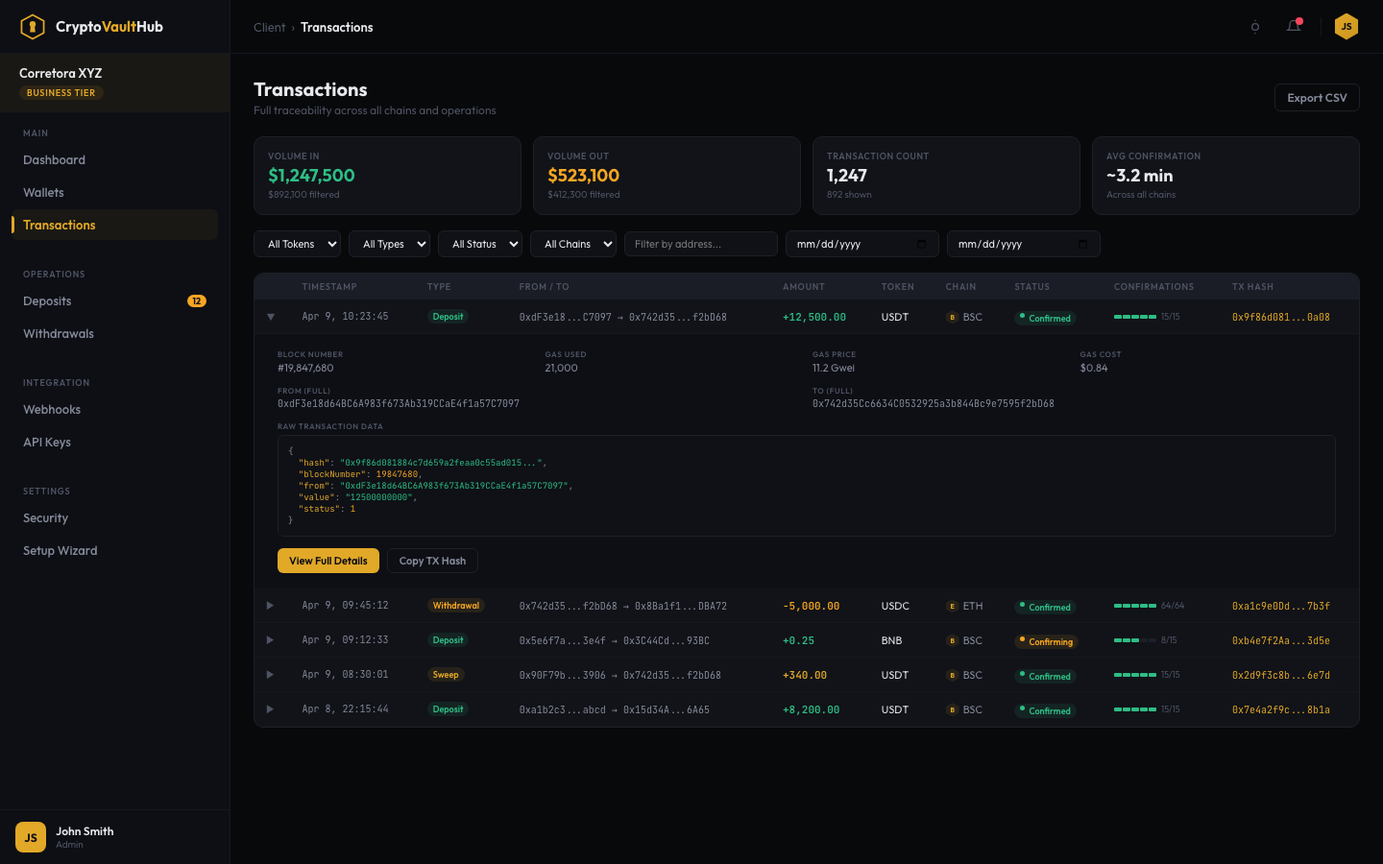
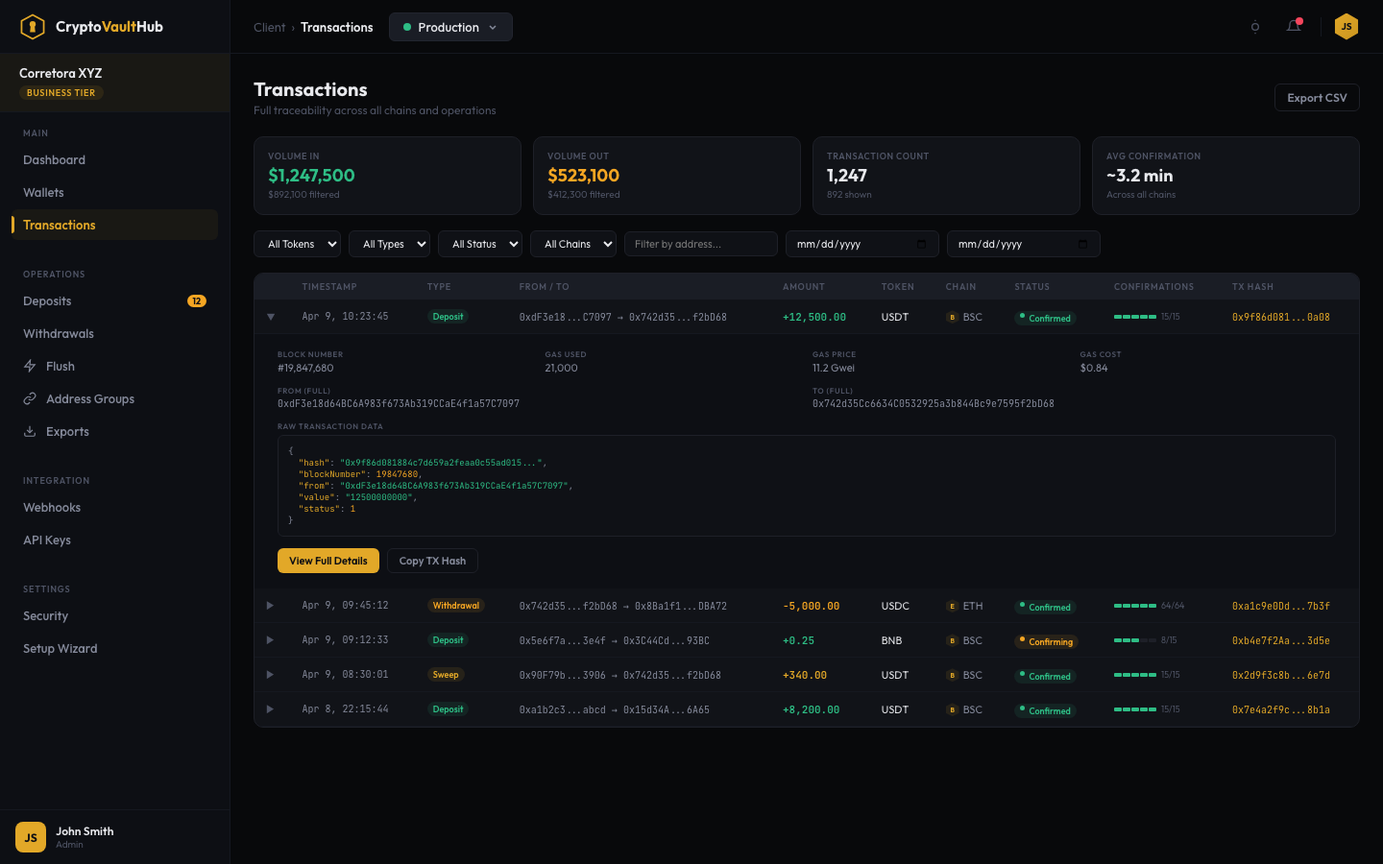
docs: update client portal screenshots for v2 sidebar and header changes
Add Flush, Address Groups, and Exports nav items under Operations section
and Project Selector (Production) in header across all client screenshots:
transactions, setup wizard, dashboard, and wallets (dark + light variants).

Changed region(s): [[0.0, 0.4044, 0.0938, 0.6533], [0.2812, 0.0, 0.375, 0.0622], [0.0312, 0.7467, 0.0625, 0.7778]]

diff --git a/docs/screenshots/client-wallets-dark.html b/docs/screenshots/client-wallets-dark.html
@@ -77,13 +77,13 @@ body{width:1440px;height:900px;overflow:hidden;font-family:'Outfit',sans-serif;b
   <div class="client-info"><div class="name">Corretora XYZ</div><div class="tier-badge">Business Tier</div></div>
   <nav style="flex:1;overflow-y:auto;">
     <div class="nav-section"><div class="nav-label">Main</div><a class="nav-item" href="#">Dashboard</a><a class="nav-item active" href="#">Wallets</a><a class="nav-item" href="#">Transactions</a></div>
-    <div class="nav-section"><div class="nav-label">Operations</div><a class="nav-item" href="#">Deposits <span class="nav-badge">12</span></a><a class="nav-item" href="#">Withdrawals</a></div>
+    <div class="nav-section"><div class="nav-label">Operations</div><a class="nav-item" href="#">Deposits <span class="nav-badge">12</span></a><a class="nav-item" href="#">Withdrawals</a><a class="nav-item" href="#"><svg width="14" height="14" viewBox="0 0 24 24" fill="none" stroke="currentColor" stroke-width="2" stroke-linecap="round" stroke-linejoin="round"><polygon points="13 2 3 14 12 14 11 22 21 10 12 10 13 2"/></svg> Flush</a><a class="nav-item" href="#"><svg width="14" height="14" viewBox="0 0 24 24" fill="none" stroke="currentColor" stroke-width="2" stroke-linecap="round" stroke-linejoin="round"><path d="M10 13a5 5 0 007.54.54l3-3a5 5 0 00-7.07-7.07l-1.72 1.71"/><path d="M14 11a5 5 0 00-7.54-.54l-3 3a5 5 0 007.07 7.07l1.71-1.71"/></svg> Address Groups</a><a class="nav-item" href="#"><svg width="14" height="14" viewBox="0 0 24 24" fill="none" stroke="currentColor" stroke-width="2" stroke-linecap="round" stroke-linejoin="round"><path d="M21 15v4a2 2 0 01-2 2H5a2 2 0 01-2-2v-4"/><polyline points="7 10 12 15 17 10"/><line x1="12" y1="15" x2="12" y2="3"/></svg> Exports</a></div>
     <div class="nav-section"><div class="nav-label">Integration</div><a class="nav-item" href="#">Webhooks</a><a class="nav-item" href="#">API Keys</a></div>
     <div class="nav-section"><div class="nav-label">Settings</div><a class="nav-item" href="#">Security</a><a class="nav-item" href="#">Setup Wizard</a></div>
   </nav>
   <div class="sidebar-footer"><div class="avatar-sq">JS</div><div class="user-info"><div class="user-name">John Smith</div><div class="user-role">Admin</div></div></div>
 </aside>
-<header class="header"><div class="breadcrumb"><span class="crumb">Client</span><span class="sep">&#8250;</span><span class="crumb active">Wallets</span></div><div class="header-actions"><button class="header-btn"><svg width="16" height="16" viewBox="0 0 24 24" fill="none" stroke="#4E5364" stroke-width="2"><circle cx="12" cy="12" r="5"/><line x1="12" y1="1" x2="12" y2="3"/></svg></button><button class="header-btn" style="position:relative;"><svg width="16" height="16" viewBox="0 0 24 24" fill="none" stroke="#4E5364" stroke-width="2"><path d="M18 8A6 6 0 006 8c0 7-3 9-3 9h18s-3-2-3-9"/></svg><span class="notif-dot"></span></button><div class="header-sep"></div><div class="mini-avatar">JS</div></div></header>
+<header class="header"><div class="breadcrumb"><span class="crumb">Client</span><span class="sep">&#8250;</span><span class="crumb active">Wallets</span></div><div class="header-actions"><div style="display:flex;align-items:center;gap:8px;padding:6px 14px;background:#1A1D25;border:1px solid #22252F;border-radius:6px;cursor:pointer;"><div style="width:8px;height:8px;border-radius:50%;background:#2EBD85;"></div><span style="font-size:13px;font-weight:500;color:#E8E9ED;">Production</span><svg width="12" height="12" viewBox="0 0 12 12" fill="none"><path d="M3 5L6 8L9 5" stroke="#858A9B" stroke-width="1.5"/></svg></div><div class="header-sep"></div><button class="header-btn"><svg width="16" height="16" viewBox="0 0 24 24" fill="none" stroke="#4E5364" stroke-width="2"><circle cx="12" cy="12" r="5"/><line x1="12" y1="1" x2="12" y2="3"/></svg></button><button class="header-btn" style="position:relative;"><svg width="16" height="16" viewBox="0 0 24 24" fill="none" stroke="#4E5364" stroke-width="2"><path d="M18 8A6 6 0 006 8c0 7-3 9-3 9h18s-3-2-3-9"/></svg><span class="notif-dot"></span></button><div class="header-sep"></div><div class="mini-avatar">JS</div></div></header>
 <div class="main">
   <div class="page-top"><div><h1>My Wallets</h1><p>All deposit addresses and wallet details across chains</p></div><div class="page-top-actions"><button class="btn-outline">Import CSV</button><button class="btn-gold">+ Generate Address</button></div></div>
   <div class="stats-grid">

diff --git a/docs/screenshots/client-wallets-light.html b/docs/screenshots/client-wallets-light.html
@@ -70,13 +70,13 @@ body{width:1440px;height:900px;overflow:hidden;font-family:'Outfit',sans-serif;b
   <div class="client-info"><div class="name">Corretora XYZ</div><div class="tier-badge">Business Tier</div></div>
   <nav style="flex:1;overflow-y:auto;">
     <div class="nav-section"><div class="nav-label">Main</div><a class="nav-item" href="#">Dashboard</a><a class="nav-item active" href="#">Wallets</a><a class="nav-item" href="#">Transactions</a></div>
-    <div class="nav-section"><div class="nav-label">Operations</div><a class="nav-item" href="#">Deposits <span class="nav-badge">12</span></a><a class="nav-item" href="#">Withdrawals</a></div>
+    <div class="nav-section"><div class="nav-label">Operations</div><a class="nav-item" href="#">Deposits <span class="nav-badge">12</span></a><a class="nav-item" href="#">Withdrawals</a><a class="nav-item" href="#"><svg width="14" height="14" viewBox="0 0 24 24" fill="none" stroke="currentColor" stroke-width="2" stroke-linecap="round" stroke-linejoin="round"><polygon points="13 2 3 14 12 14 11 22 21 10 12 10 13 2"/></svg> Flush</a><a class="nav-item" href="#"><svg width="14" height="14" viewBox="0 0 24 24" fill="none" stroke="currentColor" stroke-width="2" stroke-linecap="round" stroke-linejoin="round"><path d="M10 13a5 5 0 007.54.54l3-3a5 5 0 00-7.07-7.07l-1.72 1.71"/><path d="M14 11a5 5 0 00-7.54-.54l-3 3a5 5 0 007.07 7.07l1.71-1.71"/></svg> Address Groups</a><a class="nav-item" href="#"><svg width="14" height="14" viewBox="0 0 24 24" fill="none" stroke="currentColor" stroke-width="2" stroke-linecap="round" stroke-linejoin="round"><path d="M21 15v4a2 2 0 01-2 2H5a2 2 0 01-2-2v-4"/><polyline points="7 10 12 15 17 10"/><line x1="12" y1="15" x2="12" y2="3"/></svg> Exports</a></div>
     <div class="nav-section"><div class="nav-label">Integration</div><a class="nav-item" href="#">Webhooks</a><a class="nav-item" href="#">API Keys</a></div>
     <div class="nav-section"><div class="nav-label">Settings</div><a class="nav-item" href="#">Security</a><a class="nav-item" href="#">Setup Wizard</a></div>
   </nav>
   <div class="sidebar-footer"><div class="avatar-sq">JS</div><div class="user-info"><div class="user-name">John Smith</div><div class="user-role">Admin</div></div></div>
 </aside>
-<header class="header"><div class="breadcrumb"><span class="crumb">Client</span><span class="sep">&#8250;</span><span class="crumb active">Wallets</span></div><div class="header-actions"><button class="header-btn"><svg width="16" height="16" viewBox="0 0 24 24" fill="none" stroke="#9CA0AE" stroke-width="2"><path d="M21 12.79A9 9 0 1111.21 3 7 7 0 0021 12.79z"/></svg></button><button class="header-btn" style="position:relative;"><svg width="16" height="16" viewBox="0 0 24 24" fill="none" stroke="#9CA0AE" stroke-width="2"><path d="M18 8A6 6 0 006 8c0 7-3 9-3 9h18s-3-2-3-9"/></svg><span class="notif-dot"></span></button><div class="header-sep"></div><div class="mini-avatar">JS</div></div></header>
+<header class="header"><div class="breadcrumb"><span class="crumb">Client</span><span class="sep">&#8250;</span><span class="crumb active">Wallets</span></div><div class="header-actions"><div style="display:flex;align-items:center;gap:8px;padding:6px 14px;background:#F7F8FA;border:1px solid #E2E4E8;border-radius:6px;cursor:pointer;"><div style="width:8px;height:8px;border-radius:50%;background:#2EBD85;"></div><span style="font-size:13px;font-weight:500;color:#111318;">Production</span><svg width="12" height="12" viewBox="0 0 12 12" fill="none"><path d="M3 5L6 8L9 5" stroke="#9CA0AE" stroke-width="1.5"/></svg></div><div class="header-sep"></div><button class="header-btn"><svg width="16" height="16" viewBox="0 0 24 24" fill="none" stroke="#9CA0AE" stroke-width="2"><path d="M21 12.79A9 9 0 1111.21 3 7 7 0 0021 12.79z"/></svg></button><button class="header-btn" style="position:relative;"><svg width="16" height="16" viewBox="0 0 24 24" fill="none" stroke="#9CA0AE" stroke-width="2"><path d="M18 8A6 6 0 006 8c0 7-3 9-3 9h18s-3-2-3-9"/></svg><span class="notif-dot"></span></button><div class="header-sep"></div><div class="mini-avatar">JS</div></div></header>
 <div class="main">
   <div class="page-top"><div><h1>My Wallets</h1><p>All deposit addresses and wallet details across chains</p></div><div class="page-top-actions"><button class="btn-outline">Import CSV</button><button class="btn-gold">+ Generate Address</button></div></div>
   <div class="stats-grid">

diff --git a/docs/screenshots/client-dashboard-light.html b/docs/screenshots/client-dashboard-light.html
@@ -77,7 +77,7 @@ body{width:1440px;height:900px;overflow:hidden;font-family:'Outfit',sans-serif;b
   <div class="client-info"><div class="name">Corretora XYZ</div><div class="tier-badge">Business Tier</div></div>
   <nav style="flex:1;overflow-y:auto;">
     <div class="nav-section"><div class="nav-label">Main</div><a class="nav-item active" href="#">Dashboard</a><a class="nav-item" href="#">Wallets</a><a class="nav-item" href="#">Transactions</a></div>
-    <div class="nav-section"><div class="nav-label">Operations</div><a class="nav-item" href="#">Deposits <span class="badge">12</span></a><a class="nav-item" href="#">Withdrawals</a></div>
+    <div class="nav-section"><div class="nav-label">Operations</div><a class="nav-item" href="#">Deposits <span class="badge">12</span></a><a class="nav-item" href="#">Withdrawals</a><a class="nav-item" href="#"><svg width="14" height="14" viewBox="0 0 24 24" fill="none" stroke="currentColor" stroke-width="2" stroke-linecap="round" stroke-linejoin="round"><polygon points="13 2 3 14 12 14 11 22 21 10 12 10 13 2"/></svg> Flush</a><a class="nav-item" href="#"><svg width="14" height="14" viewBox="0 0 24 24" fill="none" stroke="currentColor" stroke-width="2" stroke-linecap="round" stroke-linejoin="round"><path d="M10 13a5 5 0 007.54.54l3-3a5 5 0 00-7.07-7.07l-1.72 1.71"/><path d="M14 11a5 5 0 00-7.54-.54l-3 3a5 5 0 007.07 7.07l1.71-1.71"/></svg> Address Groups</a><a class="nav-item" href="#"><svg width="14" height="14" viewBox="0 0 24 24" fill="none" stroke="currentColor" stroke-width="2" stroke-linecap="round" stroke-linejoin="round"><path d="M21 15v4a2 2 0 01-2 2H5a2 2 0 01-2-2v-4"/><polyline points="7 10 12 15 17 10"/><line x1="12" y1="15" x2="12" y2="3"/></svg> Exports</a></div>
     <div class="nav-section"><div class="nav-label">Integration</div><a class="nav-item" href="#">Webhooks</a><a class="nav-item" href="#">API Keys</a></div>
     <div class="nav-section"><div class="nav-label">Settings</div><a class="nav-item" href="#">Security</a><a class="nav-item" href="#">Setup Wizard</a></div>
   </nav>
@@ -85,7 +85,7 @@ body{width:1440px;height:900px;overflow:hidden;font-family:'Outfit',sans-serif;b
 </aside>
 <header class="header">
   <div class="breadcrumb"><span class="crumb">Client</span><span class="sep">&#8250;</span><span class="crumb active">Dashboard</span></div>
-  <div class="header-actions"><button class="header-btn"><svg width="16" height="16" viewBox="0 0 24 24" fill="none" stroke="#9CA0AE" stroke-width="2"><path d="M21 12.79A9 9 0 1111.21 3 7 7 0 0021 12.79z"/></svg></button><button class="header-btn" style="position:relative;"><svg width="16" height="16" viewBox="0 0 24 24" fill="none" stroke="#9CA0AE" stroke-width="2"><path d="M18 8A6 6 0 006 8c0 7-3 9-3 9h18s-3-2-3-9"/><path d="M13.73 21a2 2 0 01-3.46 0"/></svg><span class="notif-dot"></span></button><div class="header-sep"></div><div class="mini-avatar">JS</div></div>
+  <div class="header-actions"><div style="display:flex;align-items:center;gap:8px;padding:6px 14px;background:#F7F8FA;border:1px solid #E2E4E8;border-radius:6px;cursor:pointer;"><div style="width:8px;height:8px;border-radius:50%;background:#2EBD85;"></div><span style="font-size:13px;font-weight:500;color:#111318;">Production</span><svg width="12" height="12" viewBox="0 0 12 12" fill="none"><path d="M3 5L6 8L9 5" stroke="#9CA0AE" stroke-width="1.5"/></svg></div><div class="header-sep"></div><button class="header-btn"><svg width="16" height="16" viewBox="0 0 24 24" fill="none" stroke="#9CA0AE" stroke-width="2"><path d="M21 12.79A9 9 0 1111.21 3 7 7 0 0021 12.79z"/></svg></button><button class="header-btn" style="position:relative;"><svg width="16" height="16" viewBox="0 0 24 24" fill="none" stroke="#9CA0AE" stroke-width="2"><path d="M18 8A6 6 0 006 8c0 7-3 9-3 9h18s-3-2-3-9"/><path d="M13.73 21a2 2 0 01-3.46 0"/></svg><span class="notif-dot"></span></button><div class="header-sep"></div><div class="mini-avatar">JS</div></div>
 </header>
 <div class="main">
   <div class="welcome"><div><h1>Welcome back, Corretora XYZ</h1><div class="meta">Corretora XYZ <span class="tier-badge" style="margin-left:8px;">Business Tier</span></div></div><div class="quick-actions"><button class="btn-gold">+ Generate Deposit Address</button><button class="btn-outline">New Withdrawal</button><button class="btn-outline">View Setup Wizard</button></div></div>

diff --git a/docs/screenshots/client-setup-wizard-light.html b/docs/screenshots/client-setup-wizard-light.html
@@ -64,13 +64,13 @@ body{width:1440px;height:900px;overflow:hidden;font-family:'Outfit',sans-serif;b
   <div class="client-info"><div class="name">Corretora XYZ</div><div class="tier-badge">Business Tier</div></div>
   <nav style="flex:1;overflow-y:auto;">
     <div class="nav-section"><div class="nav-label">Main</div><a class="nav-item" href="#">Dashboard</a><a class="nav-item" href="#">Wallets</a><a class="nav-item" href="#">Transactions</a></div>
-    <div class="nav-section"><div class="nav-label">Operations</div><a class="nav-item" href="#">Deposits</a><a class="nav-item" href="#">Withdrawals</a></div>
+    <div class="nav-section"><div class="nav-label">Operations</div><a class="nav-item" href="#">Deposits</a><a class="nav-item" href="#">Withdrawals</a><a class="nav-item" href="#"><svg width="14" height="14" viewBox="0 0 24 24" fill="none" stroke="#5C6070" stroke-width="2"><polygon points="13 2 3 14 12 14 11 22 21 10 12 10 13 2"/></svg>Flush</a><a class="nav-item" href="#"><svg width="14" height="14" viewBox="0 0 24 24" fill="none" stroke="#5C6070" stroke-width="2"><path d="M10 13a5 5 0 007.54.54l3-3a5 5 0 00-7.07-7.07l-1.72 1.71"/><path d="M14 11a5 5 0 00-7.54-.54l-3 3a5 5 0 007.07 7.07l1.71-1.71"/></svg>Address Groups</a><a class="nav-item" href="#"><svg width="14" height="14" viewBox="0 0 24 24" fill="none" stroke="#5C6070" stroke-width="2"><path d="M21 15v4a2 2 0 01-2 2H5a2 2 0 01-2-2v-4"/><polyline points="7 10 12 15 17 10"/><line x1="12" y1="15" x2="12" y2="3"/></svg>Exports</a></div>
     <div class="nav-section"><div class="nav-label">Integration</div><a class="nav-item" href="#">Webhooks</a><a class="nav-item" href="#">API Keys</a></div>
     <div class="nav-section"><div class="nav-label">Settings</div><a class="nav-item" href="#">Security</a><a class="nav-item active" href="#">Setup Wizard</a></div>
   </nav>
   <div class="sidebar-footer"><div class="avatar-sq">JS</div><div class="user-info"><div class="user-name">John Smith</div><div class="user-role">Admin</div></div></div>
 </aside>
-<header class="header"><div class="breadcrumb"><span class="crumb">Client</span><span class="sep">&#8250;</span><span class="crumb">Settings</span><span class="sep">&#8250;</span><span class="crumb active">Setup Wizard</span></div><div class="header-actions"><button class="header-btn"><svg width="16" height="16" viewBox="0 0 24 24" fill="none" stroke="#9CA0AE" stroke-width="2"><path d="M21 12.79A9 9 0 1111.21 3 7 7 0 0021 12.79z"/></svg></button><button class="header-btn" style="position:relative;"><svg width="16" height="16" viewBox="0 0 24 24" fill="none" stroke="#9CA0AE" stroke-width="2"><path d="M18 8A6 6 0 006 8c0 7-3 9-3 9h18s-3-2-3-9"/></svg><span class="notif-dot"></span></button><div class="header-sep"></div><div class="mini-avatar">JS</div></div></header>
+<header class="header"><div style="display:flex;align-items:center;gap:16px;"><div class="breadcrumb"><span class="crumb">Client</span><span class="sep">&#8250;</span><span class="crumb">Settings</span><span class="sep">&#8250;</span><span class="crumb active">Setup Wizard</span></div><div style="display:flex;align-items:center;gap:8px;padding:6px 14px;background:#F0F1F3;border:1px solid #E2E4E8;border-radius:6px;cursor:pointer;"><div style="width:8px;height:8px;border-radius:50%;background:#2EBD85;"></div><span style="font-size:13px;font-weight:500;color:#111318;">Production</span><svg width="12" height="12" viewBox="0 0 12 12" fill="none"><path d="M3 5L6 8L9 5" stroke="#9CA0AE" stroke-width="1.5"/></svg></div></div><div class="header-actions"><button class="header-btn"><svg width="16" height="16" viewBox="0 0 24 24" fill="none" stroke="#9CA0AE" stroke-width="2"><path d="M21 12.79A9 9 0 1111.21 3 7 7 0 0021 12.79z"/></svg></button><button class="header-btn" style="position:relative;"><svg width="16" height="16" viewBox="0 0 24 24" fill="none" stroke="#9CA0AE" stroke-width="2"><path d="M18 8A6 6 0 006 8c0 7-3 9-3 9h18s-3-2-3-9"/></svg><span class="notif-dot"></span></button><div class="header-sep"></div><div class="mini-avatar">JS</div></div></header>
 <div class="main">
   <div class="steps">
     <div class="step"><span class="step-num done">&#10003;</span><span class="step-label done">Select Chain</span></div><div class="step-line done"></div>

diff --git a/docs/screenshots/client-dashboard-dark.html b/docs/screenshots/client-dashboard-dark.html
@@ -96,7 +96,7 @@ body{width:1440px;height:900px;overflow:hidden;font-family:'Outfit',sans-serif;b
       <a class="nav-item active" href="#">Dashboard</a><a class="nav-item" href="#">Wallets</a><a class="nav-item" href="#">Transactions</a>
     </div>
     <div class="nav-section"><div class="nav-label">Operations</div>
-      <a class="nav-item" href="#">Deposits <span class="badge">12</span></a><a class="nav-item" href="#">Withdrawals</a>
+      <a class="nav-item" href="#">Deposits <span class="badge">12</span></a><a class="nav-item" href="#">Withdrawals</a><a class="nav-item" href="#"><svg width="14" height="14" viewBox="0 0 24 24" fill="none" stroke="currentColor" stroke-width="2" stroke-linecap="round" stroke-linejoin="round"><polygon points="13 2 3 14 12 14 11 22 21 10 12 10 13 2"/></svg> Flush</a><a class="nav-item" href="#"><svg width="14" height="14" viewBox="0 0 24 24" fill="none" stroke="currentColor" stroke-width="2" stroke-linecap="round" stroke-linejoin="round"><path d="M10 13a5 5 0 007.54.54l3-3a5 5 0 00-7.07-7.07l-1.72 1.71"/><path d="M14 11a5 5 0 00-7.54-.54l-3 3a5 5 0 007.07 7.07l1.71-1.71"/></svg> Address Groups</a><a class="nav-item" href="#"><svg width="14" height="14" viewBox="0 0 24 24" fill="none" stroke="currentColor" stroke-width="2" stroke-linecap="round" stroke-linejoin="round"><path d="M21 15v4a2 2 0 01-2 2H5a2 2 0 01-2-2v-4"/><polyline points="7 10 12 15 17 10"/><line x1="12" y1="15" x2="12" y2="3"/></svg> Exports</a>
     </div>
     <div class="nav-section"><div class="nav-label">Integration</div>
       <a class="nav-item" href="#">Webhooks</a><a class="nav-item" href="#">API Keys</a>
@@ -109,7 +109,7 @@ body{width:1440px;height:900px;overflow:hidden;font-family:'Outfit',sans-serif;b
 </aside>
 <header class="header">
   <div class="breadcrumb"><span class="crumb">Client</span><span class="sep">&#8250;</span><span class="crumb active">Dashboard</span></div>
-  <div class="header-actions"><button class="header-btn"><svg width="16" height="16" viewBox="0 0 24 24" fill="none" stroke="#4E5364" stroke-width="2"><circle cx="12" cy="12" r="5"/><line x1="12" y1="1" x2="12" y2="3"/><line x1="12" y1="21" x2="12" y2="23"/><line x1="4.22" y1="4.22" x2="5.64" y2="5.64"/><line x1="18.36" y1="18.36" x2="19.78" y2="19.78"/><line x1="1" y1="12" x2="3" y2="12"/><line x1="21" y1="12" x2="23" y2="12"/><line x1="4.22" y1="19.78" x2="5.64" y2="18.36"/><line x1="18.36" y1="5.64" x2="19.78" y2="4.22"/></svg></button><button class="header-btn" style="position:relative;"><svg width="16" height="16" viewBox="0 0 24 24" fill="none" stroke="#4E5364" stroke-width="2"><path d="M18 8A6 6 0 006 8c0 7-3 9-3 9h18s-3-2-3-9"/><path d="M13.73 21a2 2 0 01-3.46 0"/></svg><span class="notif-dot"></span></button><div class="header-sep"></div><div class="mini-avatar">JS</div></div>
+  <div class="header-actions"><div style="display:flex;align-items:center;gap:8px;padding:6px 14px;background:#1A1D25;border:1px solid #22252F;border-radius:6px;cursor:pointer;"><div style="width:8px;height:8px;border-radius:50%;background:#2EBD85;"></div><span style="font-size:13px;font-weight:500;color:#E8E9ED;">Production</span><svg width="12" height="12" viewBox="0 0 12 12" fill="none"><path d="M3 5L6 8L9 5" stroke="#858A9B" stroke-width="1.5"/></svg></div><div class="header-sep"></div><button class="header-btn"><svg width="16" height="16" viewBox="0 0 24 24" fill="none" stroke="#4E5364" stroke-width="2"><circle cx="12" cy="12" r="5"/><line x1="12" y1="1" x2="12" y2="3"/><line x1="12" y1="21" x2="12" y2="23"/><line x1="4.22" y1="4.22" x2="5.64" y2="5.64"/><line x1="18.36" y1="18.36" x2="19.78" y2="19.78"/><line x1="1" y1="12" x2="3" y2="12"/><line x1="21" y1="12" x2="23" y2="12"/><line x1="4.22" y1="19.78" x2="5.64" y2="18.36"/><line x1="18.36" y1="5.64" x2="19.78" y2="4.22"/></svg></button><button class="header-btn" style="position:relative;"><svg width="16" height="16" viewBox="0 0 24 24" fill="none" stroke="#4E5364" stroke-width="2"><path d="M18 8A6 6 0 006 8c0 7-3 9-3 9h18s-3-2-3-9"/><path d="M13.73 21a2 2 0 01-3.46 0"/></svg><span class="notif-dot"></span></button><div class="header-sep"></div><div class="mini-avatar">JS</div></div>
 </header>
 <div class="main">
   <div class="welcome">

diff --git a/docs/screenshots/client-setup-wizard-dark.html b/docs/screenshots/client-setup-wizard-dark.html
@@ -73,13 +73,13 @@ body{width:1440px;height:900px;overflow:hidden;font-family:'Outfit',sans-serif;b
   <div class="client-info"><div class="name">Corretora XYZ</div><div class="tier-badge">Business Tier</div></div>
   <nav style="flex:1;overflow-y:auto;">
     <div class="nav-section"><div class="nav-label">Main</div><a class="nav-item" href="#">Dashboard</a><a class="nav-item" href="#">Wallets</a><a class="nav-item" href="#">Transactions</a></div>
-    <div class="nav-section"><div class="nav-label">Operations</div><a class="nav-item" href="#">Deposits</a><a class="nav-item" href="#">Withdrawals</a></div>
+    <div class="nav-section"><div class="nav-label">Operations</div><a class="nav-item" href="#">Deposits</a><a class="nav-item" href="#">Withdrawals</a><a class="nav-item" href="#"><svg width="14" height="14" viewBox="0 0 24 24" fill="none" stroke="#858A9B" stroke-width="2"><polygon points="13 2 3 14 12 14 11 22 21 10 12 10 13 2"/></svg>Flush</a><a class="nav-item" href="#"><svg width="14" height="14" viewBox="0 0 24 24" fill="none" stroke="#858A9B" stroke-width="2"><path d="M10 13a5 5 0 007.54.54l3-3a5 5 0 00-7.07-7.07l-1.72 1.71"/><path d="M14 11a5 5 0 00-7.54-.54l-3 3a5 5 0 007.07 7.07l1.71-1.71"/></svg>Address Groups</a><a class="nav-item" href="#"><svg width="14" height="14" viewBox="0 0 24 24" fill="none" stroke="#858A9B" stroke-width="2"><path d="M21 15v4a2 2 0 01-2 2H5a2 2 0 01-2-2v-4"/><polyline points="7 10 12 15 17 10"/><line x1="12" y1="15" x2="12" y2="3"/></svg>Exports</a></div>
     <div class="nav-section"><div class="nav-label">Integration</div><a class="nav-item" href="#">Webhooks</a><a class="nav-item" href="#">API Keys</a></div>
     <div class="nav-section"><div class="nav-label">Settings</div><a class="nav-item" href="#">Security</a><a class="nav-item active" href="#">Setup Wizard</a></div>
   </nav>
   <div class="sidebar-footer"><div class="avatar-sq">JS</div><div class="user-info"><div class="user-name">John Smith</div><div class="user-role">Admin</div></div></div>
 </aside>
-<header class="header"><div class="breadcrumb"><span class="crumb">Client</span><span class="sep">&#8250;</span><span class="crumb">Settings</span><span class="sep">&#8250;</span><span class="crumb active">Setup Wizard</span></div><div class="header-actions"><button class="header-btn"><svg width="16" height="16" viewBox="0 0 24 24" fill="none" stroke="#4E5364" stroke-width="2"><circle cx="12" cy="12" r="5"/><line x1="12" y1="1" x2="12" y2="3"/></svg></button><button class="header-btn" style="position:relative;"><svg width="16" height="16" viewBox="0 0 24 24" fill="none" stroke="#4E5364" stroke-width="2"><path d="M18 8A6 6 0 006 8c0 7-3 9-3 9h18s-3-2-3-9"/></svg><span class="notif-dot"></span></button><div class="header-sep"></div><div class="mini-avatar">JS</div></div></header>
+<header class="header"><div style="display:flex;align-items:center;gap:16px;"><div class="breadcrumb"><span class="crumb">Client</span><span class="sep">&#8250;</span><span class="crumb">Settings</span><span class="sep">&#8250;</span><span class="crumb active">Setup Wizard</span></div><div style="display:flex;align-items:center;gap:8px;padding:6px 14px;background:#1A1D25;border:1px solid #22252F;border-radius:6px;cursor:pointer;"><div style="width:8px;height:8px;border-radius:50%;background:#2EBD85;"></div><span style="font-size:13px;font-weight:500;color:#E8E9ED;">Production</span><svg width="12" height="12" viewBox="0 0 12 12" fill="none"><path d="M3 5L6 8L9 5" stroke="#858A9B" stroke-width="1.5"/></svg></div></div><div class="header-actions"><button class="header-btn"><svg width="16" height="16" viewBox="0 0 24 24" fill="none" stroke="#4E5364" stroke-width="2"><circle cx="12" cy="12" r="5"/><line x1="12" y1="1" x2="12" y2="3"/></svg></button><button class="header-btn" style="position:relative;"><svg width="16" height="16" viewBox="0 0 24 24" fill="none" stroke="#4E5364" stroke-width="2"><path d="M18 8A6 6 0 006 8c0 7-3 9-3 9h18s-3-2-3-9"/></svg><span class="notif-dot"></span></button><div class="header-sep"></div><div class="mini-avatar">JS</div></div></header>
 <div class="main">
   <!-- Step indicator -->
   <div class="steps">

diff --git a/docs/screenshots/client-transactions-light.html b/docs/screenshots/client-transactions-light.html
@@ -63,13 +63,13 @@ tr:hover{background:#F0F1F3;}
   <div class="client-info"><div class="name">Corretora XYZ</div><div class="tier-badge">Business Tier</div></div>
   <nav style="flex:1;overflow-y:auto;">
     <div class="nav-section"><div class="nav-label">Main</div><a class="nav-item" href="#">Dashboard</a><a class="nav-item" href="#">Wallets</a><a class="nav-item active" href="#">Transactions</a></div>
-    <div class="nav-section"><div class="nav-label">Operations</div><a class="nav-item" href="#">Deposits</a><a class="nav-item" href="#">Withdrawals</a></div>
+    <div class="nav-section"><div class="nav-label">Operations</div><a class="nav-item" href="#">Deposits</a><a class="nav-item" href="#">Withdrawals</a><a class="nav-item" href="#"><svg width="14" height="14" viewBox="0 0 24 24" fill="none" stroke="#5C6070" stroke-width="2"><polygon points="13 2 3 14 12 14 11 22 21 10 12 10 13 2"/></svg>Flush</a><a class="nav-item" href="#"><svg width="14" height="14" viewBox="0 0 24 24" fill="none" stroke="#5C6070" stroke-width="2"><path d="M10 13a5 5 0 007.54.54l3-3a5 5 0 00-7.07-7.07l-1.72 1.71"/><path d="M14 11a5 5 0 00-7.54-.54l-3 3a5 5 0 007.07 7.07l1.71-1.71"/></svg>Address Groups</a><a class="nav-item" href="#"><svg width="14" height="14" viewBox="0 0 24 24" fill="none" stroke="#5C6070" stroke-width="2"><path d="M21 15v4a2 2 0 01-2 2H5a2 2 0 01-2-2v-4"/><polyline points="7 10 12 15 17 10"/><line x1="12" y1="15" x2="12" y2="3"/></svg>Exports</a></div>
     <div class="nav-section"><div class="nav-label">Integration</div><a class="nav-item" href="#">Webhooks</a><a class="nav-item" href="#">API Keys</a></div>
     <div class="nav-section"><div class="nav-label">Settings</div><a class="nav-item" href="#">Security</a><a class="nav-item" href="#">Setup Wizard</a></div>
   </nav>
   <div class="sidebar-footer"><div class="avatar-sq">JS</div><div class="user-info"><div class="user-name">John Smith</div><div class="user-role">Admin</div></div></div>
 </aside>
-<header class="header"><div class="breadcrumb"><span class="crumb">Client</span><span class="sep">&#8250;</span><span class="crumb active">Transactions</span></div><div class="header-actions"><button class="header-btn"><svg width="16" height="16" viewBox="0 0 24 24" fill="none" stroke="#9CA0AE" stroke-width="2"><path d="M21 12.79A9 9 0 1111.21 3 7 7 0 0021 12.79z"/></svg></button><button class="header-btn" style="position:relative;"><svg width="16" height="16" viewBox="0 0 24 24" fill="none" stroke="#9CA0AE" stroke-width="2"><path d="M18 8A6 6 0 006 8c0 7-3 9-3 9h18s-3-2-3-9"/></svg><span class="notif-dot"></span></button><div class="header-sep"></div><div class="mini-avatar">JS</div></div></header>
+<header class="header"><div style="display:flex;align-items:center;gap:16px;"><div class="breadcrumb"><span class="crumb">Client</span><span class="sep">&#8250;</span><span class="crumb active">Transactions</span></div><div style="display:flex;align-items:center;gap:8px;padding:6px 14px;background:#F0F1F3;border:1px solid #E2E4E8;border-radius:6px;cursor:pointer;"><div style="width:8px;height:8px;border-radius:50%;background:#2EBD85;"></div><span style="font-size:13px;font-weight:500;color:#111318;">Production</span><svg width="12" height="12" viewBox="0 0 12 12" fill="none"><path d="M3 5L6 8L9 5" stroke="#9CA0AE" stroke-width="1.5"/></svg></div></div><div class="header-actions"><button class="header-btn"><svg width="16" height="16" viewBox="0 0 24 24" fill="none" stroke="#9CA0AE" stroke-width="2"><path d="M21 12.79A9 9 0 1111.21 3 7 7 0 0021 12.79z"/></svg></button><button class="header-btn" style="position:relative;"><svg width="16" height="16" viewBox="0 0 24 24" fill="none" stroke="#9CA0AE" stroke-width="2"><path d="M18 8A6 6 0 006 8c0 7-3 9-3 9h18s-3-2-3-9"/></svg><span class="notif-dot"></span></button><div class="header-sep"></div><div class="mini-avatar">JS</div></div></header>
 <div class="main">
   <div class="page-top"><div><h1>Transactions</h1><p>Full traceability across all chains and operations</p></div><button class="btn-outline">Export CSV</button></div>
   <div class="stats-grid">

diff --git a/docs/screenshots/client-transactions-dark.html b/docs/screenshots/client-transactions-dark.html
@@ -84,14 +84,21 @@ tr:hover{background:#22252F;}
   <div class="client-info"><div class="name">Corretora XYZ</div><div class="tier-badge">Business Tier</div></div>
   <nav style="flex:1;overflow-y:auto;">
     <div class="nav-section"><div class="nav-label">Main</div><a class="nav-item" href="#">Dashboard</a><a class="nav-item" href="#">Wallets</a><a class="nav-item active" href="#">Transactions</a></div>
-    <div class="nav-section"><div class="nav-label">Operations</div><a class="nav-item" href="#">Deposits <span class="badge" style="background:#F5A623;color:#0D0F14;padding:1px 6px;border-radius:10px;margin-left:auto;">12</span></a><a class="nav-item" href="#">Withdrawals</a></div>
+    <div class="nav-section"><div class="nav-label">Operations</div><a class="nav-item" href="#">Deposits <span class="badge" style="background:#F5A623;color:#0D0F14;padding:1px 6px;border-radius:10px;margin-left:auto;">12</span></a><a class="nav-item" href="#">Withdrawals</a><a class="nav-item" href="#"><svg width="14" height="14" viewBox="0 0 24 24" fill="none" stroke="#858A9B" stroke-width="2"><polygon points="13 2 3 14 12 14 11 22 21 10 12 10 13 2"/></svg>Flush</a><a class="nav-item" href="#"><svg width="14" height="14" viewBox="0 0 24 24" fill="none" stroke="#858A9B" stroke-width="2"><path d="M10 13a5 5 0 007.54.54l3-3a5 5 0 00-7.07-7.07l-1.72 1.71"/><path d="M14 11a5 5 0 00-7.54-.54l-3 3a5 5 0 007.07 7.07l1.71-1.71"/></svg>Address Groups</a><a class="nav-item" href="#"><svg width="14" height="14" viewBox="0 0 24 24" fill="none" stroke="#858A9B" stroke-width="2"><path d="M21 15v4a2 2 0 01-2 2H5a2 2 0 01-2-2v-4"/><polyline points="7 10 12 15 17 10"/><line x1="12" y1="15" x2="12" y2="3"/></svg>Exports</a></div>
     <div class="nav-section"><div class="nav-label">Integration</div><a class="nav-item" href="#">Webhooks</a><a class="nav-item" href="#">API Keys</a></div>
     <div class="nav-section"><div class="nav-label">Settings</div><a class="nav-item" href="#">Security</a><a class="nav-item" href="#">Setup Wizard</a></div>
   </nav>
   <div class="sidebar-footer"><div class="avatar-sq">JS</div><div class="user-info"><div class="user-name">John Smith</div><div class="user-role">Admin</div></div></div>
 </aside>
 <header class="header">
-  <div class="breadcrumb"><span class="crumb">Client</span><span class="sep">&#8250;</span><span class="crumb active">Transactions</span></div>
+  <div style="display:flex;align-items:center;gap:16px;">
+    <div class="breadcrumb"><span class="crumb">Client</span><span class="sep">&#8250;</span><span class="crumb active">Transactions</span></div>
+    <div style="display:flex;align-items:center;gap:8px;padding:6px 14px;background:#1A1D25;border:1px solid #22252F;border-radius:6px;cursor:pointer;">
+      <div style="width:8px;height:8px;border-radius:50%;background:#2EBD85;"></div>
+      <span style="font-size:13px;font-weight:500;color:#E8E9ED;">Production</span>
+      <svg width="12" height="12" viewBox="0 0 12 12" fill="none"><path d="M3 5L6 8L9 5" stroke="#858A9B" stroke-width="1.5"/></svg>
+    </div>
+  </div>
   <div class="header-actions"><button class="header-btn"><svg width="16" height="16" viewBox="0 0 24 24" fill="none" stroke="#4E5364" stroke-width="2"><circle cx="12" cy="12" r="5"/><line x1="12" y1="1" x2="12" y2="3"/><line x1="12" y1="21" x2="12" y2="23"/></svg></button><button class="header-btn" style="position:relative;"><svg width="16" height="16" viewBox="0 0 24 24" fill="none" stroke="#4E5364" stroke-width="2"><path d="M18 8A6 6 0 006 8c0 7-3 9-3 9h18s-3-2-3-9"/></svg><span class="notif-dot"></span></button><div class="header-sep"></div><div class="mini-avatar">JS</div></div>
 </header>
 <div class="main">
